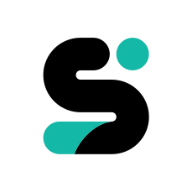
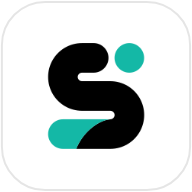
起動画面をシンプルに、ヘッダーの帯を修正、パソコン用アイコンを角の丸い四角に

diff --git a/index.html b/index.html
@@ -370,17 +370,22 @@
   .done-mark { width: 40px; height: 40px; border-radius: 999px; background: var(--teal); color: #fff; display: inline-flex; align-items: center; justify-content: center; flex-shrink: 0; animation: done-pop 0.35s cubic-bezier(.3,1.6,.6,1); }
   .done-mark svg.i { width: 20px; height: 20px; stroke-width: 3; }
   @keyframes done-pop { from { transform: scale(0.4); opacity: 0; } }
-  /* ── 起動画面（スマホ・パソコン共通） ── 背景色は manifest の background_color（白）と同じにして、OS の起動画面からつなげる */
-  @media all {
-    #splash { display: flex; position: fixed; inset: 0; z-index: 1000; background: #fff; flex-direction: column; align-items: center; justify-content: center; gap: 26px; padding-bottom: 6vh; transition: opacity 0.35s ease, visibility 0.35s; }
-    #splash img { height: clamp(40px, 5vw, 52px); animation: splash-in 0.5s cubic-bezier(0.2, 0.8, 0.2, 1) both; }
-    #splash .bar { position: relative; width: 64px; height: 3px; border-radius: 999px; background: var(--line); overflow: hidden; animation: splash-in 0.5s 0.1s both; }
-    #splash .bar::after { content: ''; position: absolute; top: 0; bottom: 0; left: 0; width: 40%; border-radius: inherit; background: var(--teal); animation: splash-bar 1s ease-in-out infinite; }
-    #splash.hide { opacity: 0; visibility: hidden; }
+  /* ── 起動画面（スマホ・パソコン共通） ──
+     白の上に小さなマークがふわっと出て、ゆっくり呼吸するように動く。3秒で静かに消えてホーム画面へ */
+  #splash { display: flex; position: fixed; inset: 0; z-index: 1000; align-items: center; justify-content: center; padding-bottom: 6vh;
+    background: #fff; overflow: hidden; transition: opacity 0.5s ease, visibility 0.5s; }
+  .sp-mark { display: block; width: clamp(56px, 5vw, 68px); aspect-ratio: 1;
+    animation: sp-in 0.6s cubic-bezier(0.2, 0.8, 0.2, 1) 0.15s both, sp-breath 1.6s ease-in-out 0.75s infinite; }
+  #splash.hide { opacity: 0; visibility: hidden; }
+  @keyframes sp-in { from { opacity: 0; transform: scale(0.94); } }
+  @keyframes sp-breath { 50% { transform: scale(0.93); opacity: 0.75; } }
+  /* 起動画面が出ている間、後ろの画面は隠しておき、起動画面が消えるのに合わせて少し下からふわっと出す */
+  .topbar, main.content, .fab { transition: opacity 0.6s ease 0.1s, transform 0.7s cubic-bezier(0.2, 0.8, 0.2, 1) 0.1s; }
+  #splash:not(.hide) ~ .topbar, #splash:not(.hide) ~ main.content, #splash:not(.hide) ~ .fab { opacity: 0; transform: translateY(14px); }
+  @media (prefers-reduced-motion: reduce) {
+    .sp-mark { animation: none; }
+    #splash:not(.hide) ~ .topbar, #splash:not(.hide) ~ main.content, #splash:not(.hide) ~ .fab { transform: none; }
   }
-  @keyframes splash-in { from { opacity: 0; transform: translateY(6px); } }
-  @keyframes splash-bar { from { transform: translateX(-100%); } to { transform: translateX(250%); } }
-  @media (prefers-reduced-motion: reduce) { #splash img, #splash .bar, #splash .bar::after { animation: none; } }
   /* 締切管理⇔企業管理を切り替えたとき、指を動かした向きから中身が入ってくる */
   #list.slide-from-r { animation: slide-from-r 0.24s ease-out; }
   #list.slide-from-l { animation: slide-from-l 0.24s ease-out; }
@@ -733,7 +738,8 @@
   .balance { display: inline-flex; padding: 8px 14px; border-radius: 999px; margin-top: 0; }
   /* 切り替えの白い板と、ヘッダー */
   .view-switch::before { background: rgba(255,255,255,0.95); box-shadow: 0 2px 8px rgba(8,80,70,0.16); }
-  .topbar { background: rgba(255,255,255,0.5); border-bottom-color: rgba(255,255,255,0.6); }
+  .topbar { background: rgba(255,255,255,0.8); border-bottom-color: rgba(255,255,255,0.7);
+    -webkit-backdrop-filter: blur(32px) saturate(160%); backdrop-filter: blur(32px) saturate(160%); }
   .search input:focus { background: var(--glass-strong); }
   /* ガラスにした入力欄が、虫めがねのアイコンの上に重なって隠さないように */
   .search svg.i { z-index: 1; }
@@ -748,7 +754,7 @@
 </style>
 </head>
 <body>
[2 lines of base64/hex data omitted]
 
 <header class="topbar">
   <div class="topbar-inner">
@@ -2699,9 +2705,10 @@ document.fonts.ready.then(() => { for (const k in inkCache) delete inkCache[k]; 
 (() => {
   const splash = document.getElementById('splash');
   if (!splash || getComputedStyle(splash).display === 'none') { if (splash) splash.remove(); return; }
+  // 3秒：起動画面を消して、ホーム画面を出す
   setTimeout(() => {
     splash.classList.add('hide');
-    setTimeout(() => splash.remove(), 400);
+    setTimeout(() => splash.remove(), 700);
   }, 3000);
 })();
 

diff --git a/sw.js b/sw.js
@@ -1,6 +1,6 @@
 // シュウカン：オフラインでも開けるようにするための Service Worker
 // 本体（index.html）は「ネット優先」：つながるときは常に最新版、つながらないときは保存版を出す
-const CACHE = 'shukan-v2';
+const CACHE = 'shukan-v3';
 const CORE = ['./', './index.html', './manifest.webmanifest', './icon-192.png', './icon-512.png', './icon-180.png'];
 
 self.addEventListener('install', e => {
